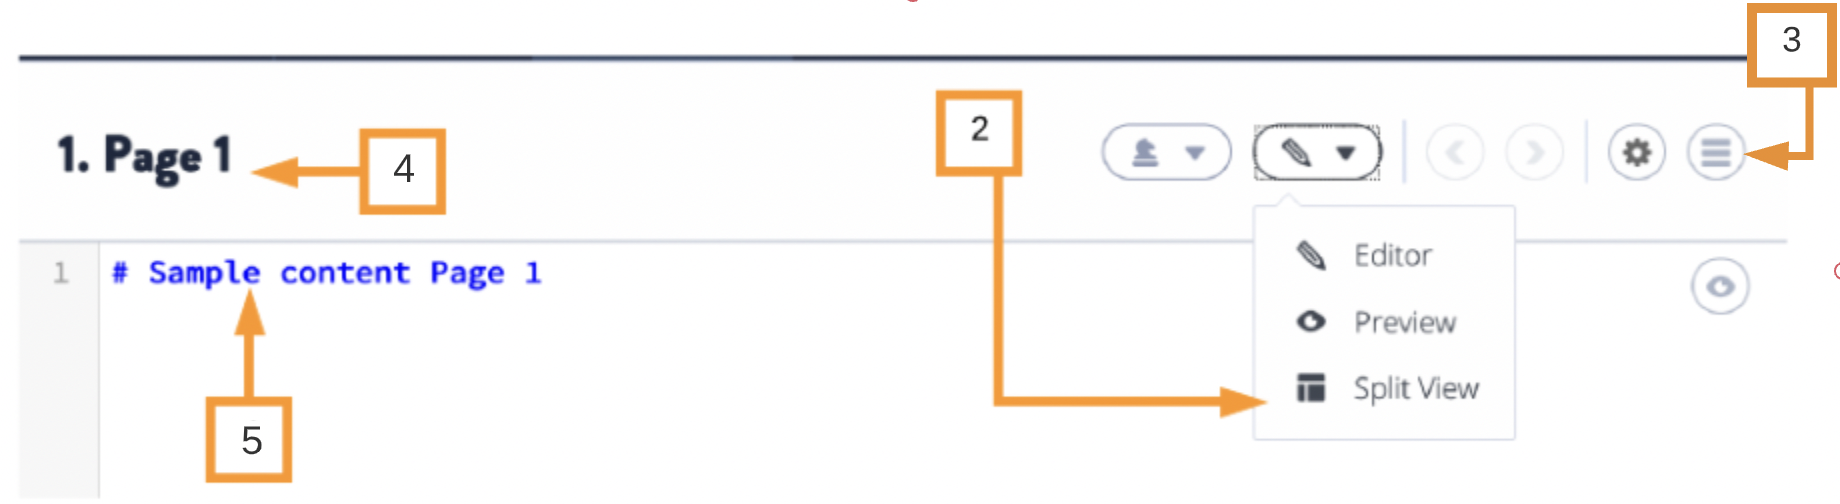
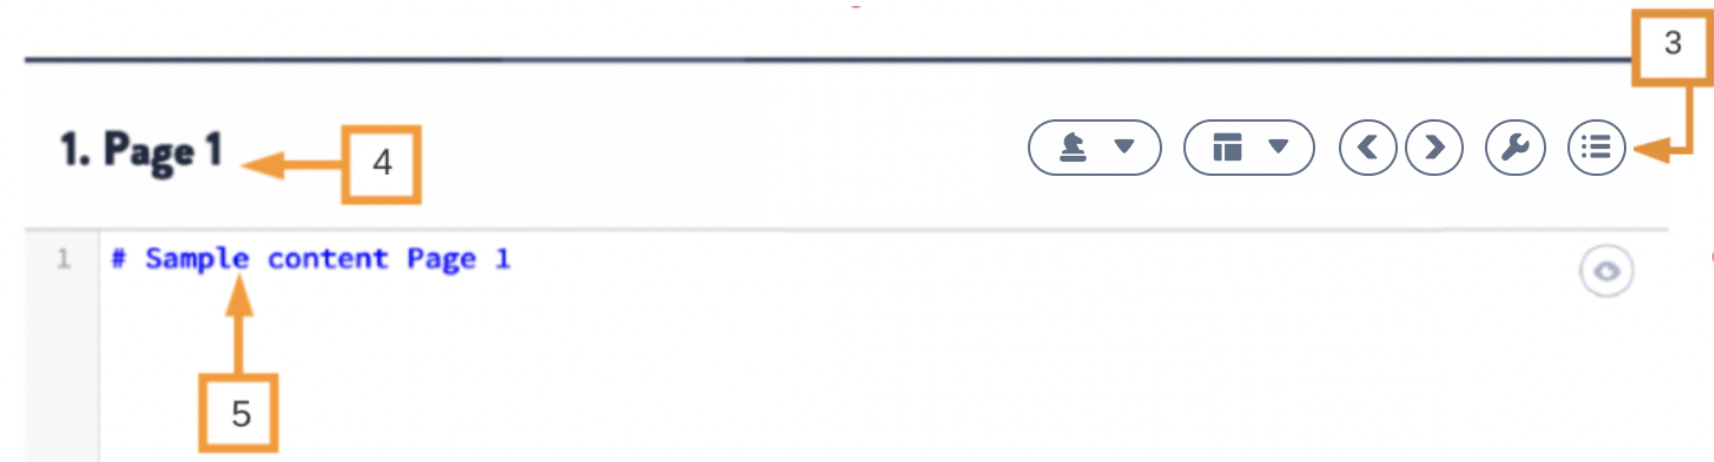
fixed some things per Ian feedback

diff --git a/.guides/content/Creating-a-course-4e79.md b/.guides/content/Creating-a-course-4e79.md
@@ -1,12 +1,12 @@
 ### Guides Editor 
-----
+---
 1. Open the Guides editor by selecting: 
 
 <table><tbody ><tr><td><details><summary>
 Tools->Guides->Edit
 </summary><hr>
 	
-![](.guides/img/toolsedit.png)
+![.guides/img/toolsedit](.guides/img/toolsedit.png)
 	
 </details></td></tr></tbody>
 </table>
@@ -17,24 +17,35 @@ OR
 Click the pencil in the file tree
 </summary><hr>
 	
-![](.guides/img/pencilnew.png)
+![.guides/img/pencilnew](.guides/img/pencilnew.png)
 	
 </details></td></tr></tbody>
 </table>
 
+### Edit & Preview
+---
+2. In order to toggle between editor/preview mode, click the following icons:
 
-### Working with Pages
+**Preview**: Allows you to view the rendered content of your page.
+![.guides/img/preview](.guides/img/preview.png)
+
+**Edit**: Allows you to make edits to your page. 
+![.guides/img/edit](.guides/img/edit.png)
+
+*To edit content and view the rendered version at the same time, click the **Panel Layout** dropdown menu and select **Split View**.* 
+ 
+![.guides/img/splitview](.guides/img/splitview.png)
+
+
+### Creating a Page
 ---
 
-2. To edit content and view the rendered version at the same time, click the **Panel Layout** dropdown menu and select **Split View**. 
-
-	
 3. Click the **index** icon to see a **Page List** and to add content. Your guide starts out with two blank pages. 
 
 4. Highlight **Page 1** and type "Your first assignment."
 
-![](.guides/img/pagepanel.png)
-	
+![.guides/img/pagepanel](.guides/img/pagepanel.png)
+
 5. Click the clipboard to copy the text. Paste into your first page.
 
 ```
@@ -45,19 +56,7 @@ Welcome to your first project! In this project we will learn about conditionals 
 ```
 
 This is what it will look like once it is rendered:
-![](.guides/img/newrender.png)
+![.guides/img/newrender](.guides/img/newrender.png)
 
 6. To rename or delete an element in your guide, right-click on the item in the **Page List**.
-
-### Edit and Preview
----
-	
-You can toggle between "edit mode" and "preview mode" by using the following buttons. 
-	
-**Edit:**  Click the pencil to edit your Guide.
-![.guides/img/edit](.guides/img/edit.png)
-	
-**Preview:**  Click the eye to see your rendedered content.
-
-![.guides/img/preview](.guides/img/preview.png)
 

diff --git a/.guides/content/Adding-instructional-materials-4f21.md b/.guides/content/Adding-instructional-materials-4f21.md
@@ -20,7 +20,7 @@ You can assign the project we created earlier or use a Codio supplied project.
 ## Add an Assignment
 5. In your newly created module click **Add Assignment** and then select **Project Based**
 
-![](.guides/img/addassignmentnew.png)
+![.guides/img/addassignmentnew](.guides/img/addassignmentnew.png)
 
 6. Use the project you created earlier in this guide. For the **Starting Point** select **Click here** to use an existing project.
 
@@ -30,7 +30,7 @@ You can assign the project we created earlier or use a Codio supplied project.
 
 8. The name of the project you created earlier should appear in the **COPY FROM** field.
 
-![](.guides/img/forkprojectnew.png)
+![.guides/img/forkprojectnew](.guides/img/forkprojectnew.png)
 
 *Codio takes a snapshot of your source project, ready for the students to clone when they start the Assignment. Changes you make to the source project will not be reflected automatically in the student assignment in your course.*
 
@@ -38,7 +38,7 @@ You can assign the project we created earlier or use a Codio supplied project.
 
 10. After selecting **Create**, the assignment will open.
 
-![](.guides/img/newname.png)
+![.guides/img/newname](.guides/img/newname.png)
 
 ## Publish your Assignment
 11. Go to **Education->Publish Assignment** to make the assignment visible to your students and for it to show on the **Teach** tab.

diff --git a/.guides/content/Viewing-your-materials-19b7.md b/.guides/content/Viewing-your-materials-19b7.md
@@ -4,17 +4,17 @@ You may view your course using the special student accounts Codio creates for yo
 2. Click on the **Students** tab near the top of the page.
 3. Now click the  **Add a Student** button.
 
-![](.guides/img/addTestStudents.png)
+![.guides/img/addTestStudents](.guides/img/addTestStudents.png)
 
 4. Click on the **Add test students** button. 
 5. You will now see all three test students (unless you removed any test students) added to your class.
 
-![](.guides/img/added-test-students.png)
+![.guides/img/added-test-students](.guides/img/added-test-students.png)
 
 ### Logging in as a test student
 6. As soon as you have added the test students, you are able to log in as one of the test students by pressing the **Login as** button. Please note that this is only available for the special test student accounts.
 
-![](.guides/img/student-viewnew.png)
+![.guides/img/studet-viewnew](.guides/img/student-viewnew.png)
 
 *Note the bar at the top of the screen, letting you know that you are logged in as a test student.*
 
@@ -31,4 +31,4 @@ One very useful feature is to 'pin' an assignment. This allows the faculty membe
 
 9. Click the 'Pin' icon. 
 
-![](.guides/img/pinAssignmentnew.png)
+![.guides/img/pinAssignmentnew](.guides/img/pinAssignmentnew.png)

diff --git a/.guides/content/Creating-a-Course-from-Existing-Codio-Resources-0d20.md b/.guides/content/Creating-a-Course-from-Existing-Codio-Resources-0d20.md
@@ -20,6 +20,13 @@ In the catalog, you can filter by type, language or category.
 
 4. Explore your course. Remember: everything in Codio Resources (and we mean everything)—from the text and code examples to auto-graded assessments, can be customized to suit your teaching context. You can even mix-and-match different resources together and with your own content! 
 
+
+||| important
+**Codio.co.uk** users need to use share codes to add resources to their account. 
+
+[**View a complete list**](https://docs.codio.com/instructors/setupcourses/resources/codioresources.html#codio-resources)  of courses and share codes. 
+
+[**More information**](https://docs.codio.com/instructors/setupcourses/create-course.html#create-fromsharecode) on how to create a course from a share code. 
+|||
+
 [**For more information on courses, click here.**](https://docs.codio.com/instructors/setupcourses/courses.html) 
-
-

diff --git a/.guides/content/Creating-a-Course-9d35.md b/.guides/content/Creating-a-Course-9d35.md
@@ -7,7 +7,7 @@ Courses are organized in a hierarchical structure with modules (folders) that co
 ### Creating New Courses
 1. Create a new course by selecting **Courses** and pressing the **New Course** button at the top of the page.
 
-![.guides/img/addCourse](.guides/img/course-structurenew.png)
+![.guides/img/course-structurenew](.guides/img/course-structurenew.png)
 
 
 2. Select **Add Empty Course**.
@@ -16,4 +16,4 @@ Courses are organized in a hierarchical structure with modules (folders) that co
 3. Name your course 'My First Course' and click **Create Course**.
 
 
-![](.guides/img/myFirstCourse.png)
+![.guides/img/myFirstCourse](.guides/img/myFirstCourse.png)

diff --git a/.guides/content/Add-files-329f.md b/.guides/content/Add-files-329f.md
@@ -16,4 +16,11 @@ This example uses Python but you can choose any language you prefer.
 
 3. You can switch between files by clicking on the tabs above the code or in the file tree. 
 
-![](.guides/img/files.png)
+![.guides/img/files](.guides/img/files.png)
+
+4. Enter the following text into `test.py`
+
+```python
+print("Hello world")
+```
+![filetabs](filetabs.png)

diff --git a/.guides/content/Your-first-project--e536.md b/.guides/content/Your-first-project--e536.md
@@ -25,5 +25,5 @@ To learn about the other available features when starting a new project, see the
 
 5. Press enter or click the **Create** button to start your server and begin working on the project.
 
-![](.guides/img/nameProject.png)
+![.guides/img/nameProject](.guides/img/nameProject.png)
 

diff --git a/.guides/content/Run--Hello-World--in-the-Terminal-aa3c.md b/.guides/content/Run--Hello-World--in-the-Terminal-aa3c.md
@@ -4,6 +4,6 @@ In the terminal window type:
 
 - `python3 test.py`
 
+![.guides/img/python-terminal](.guides/img/python-terminal.png)
 
-![](.guides/img/python-terminal.png)
 
